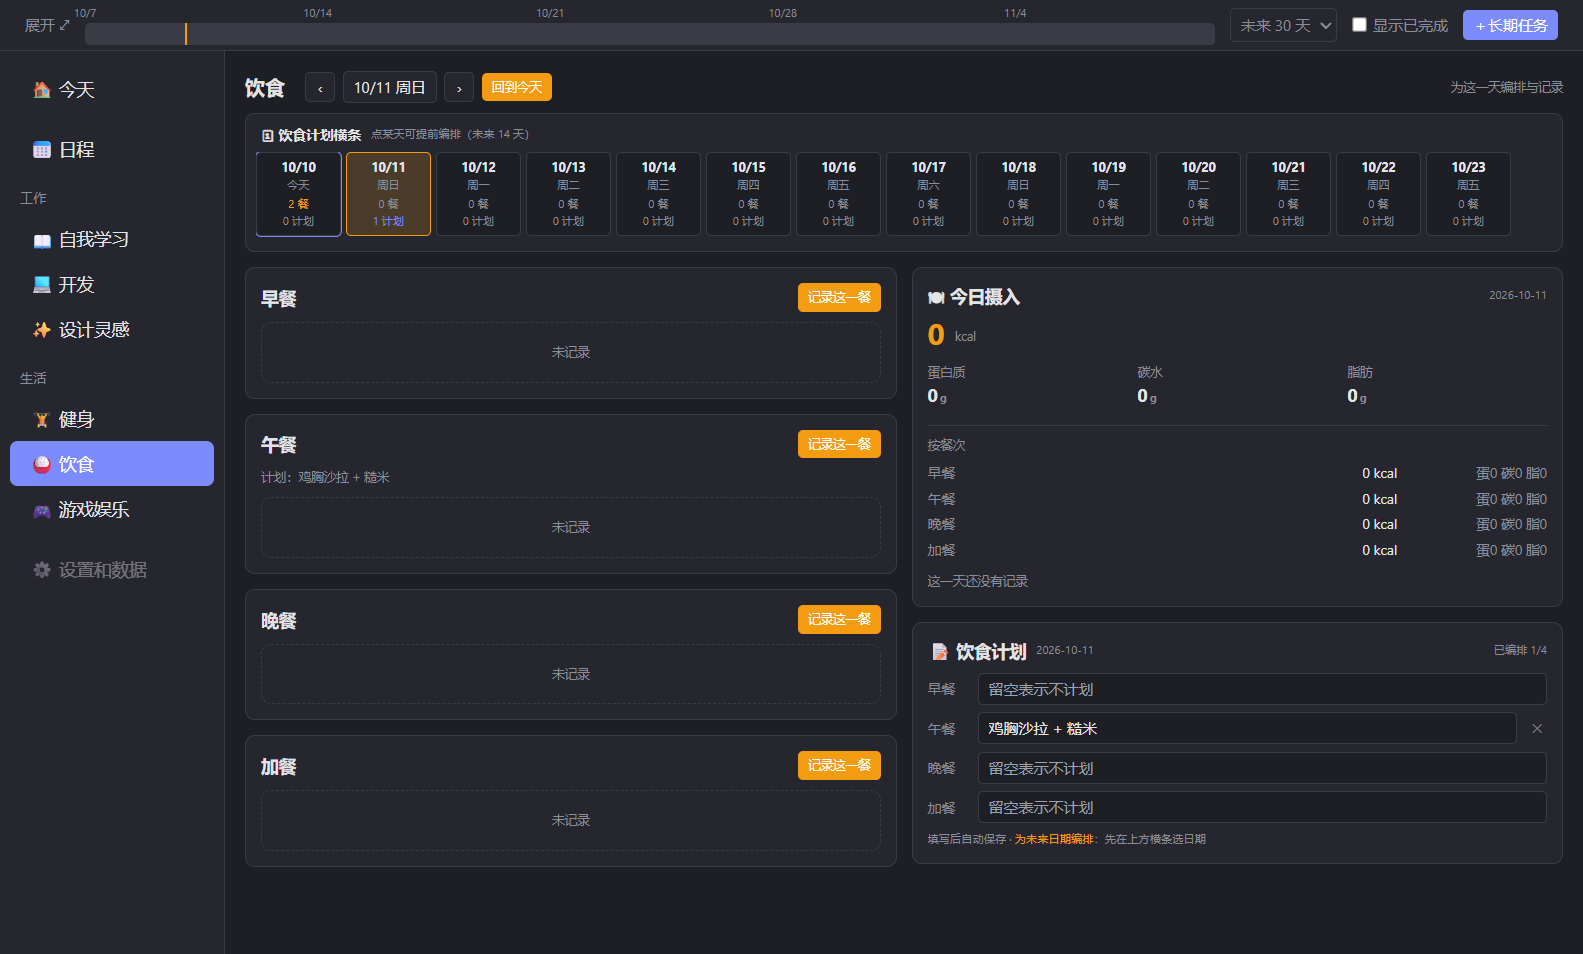
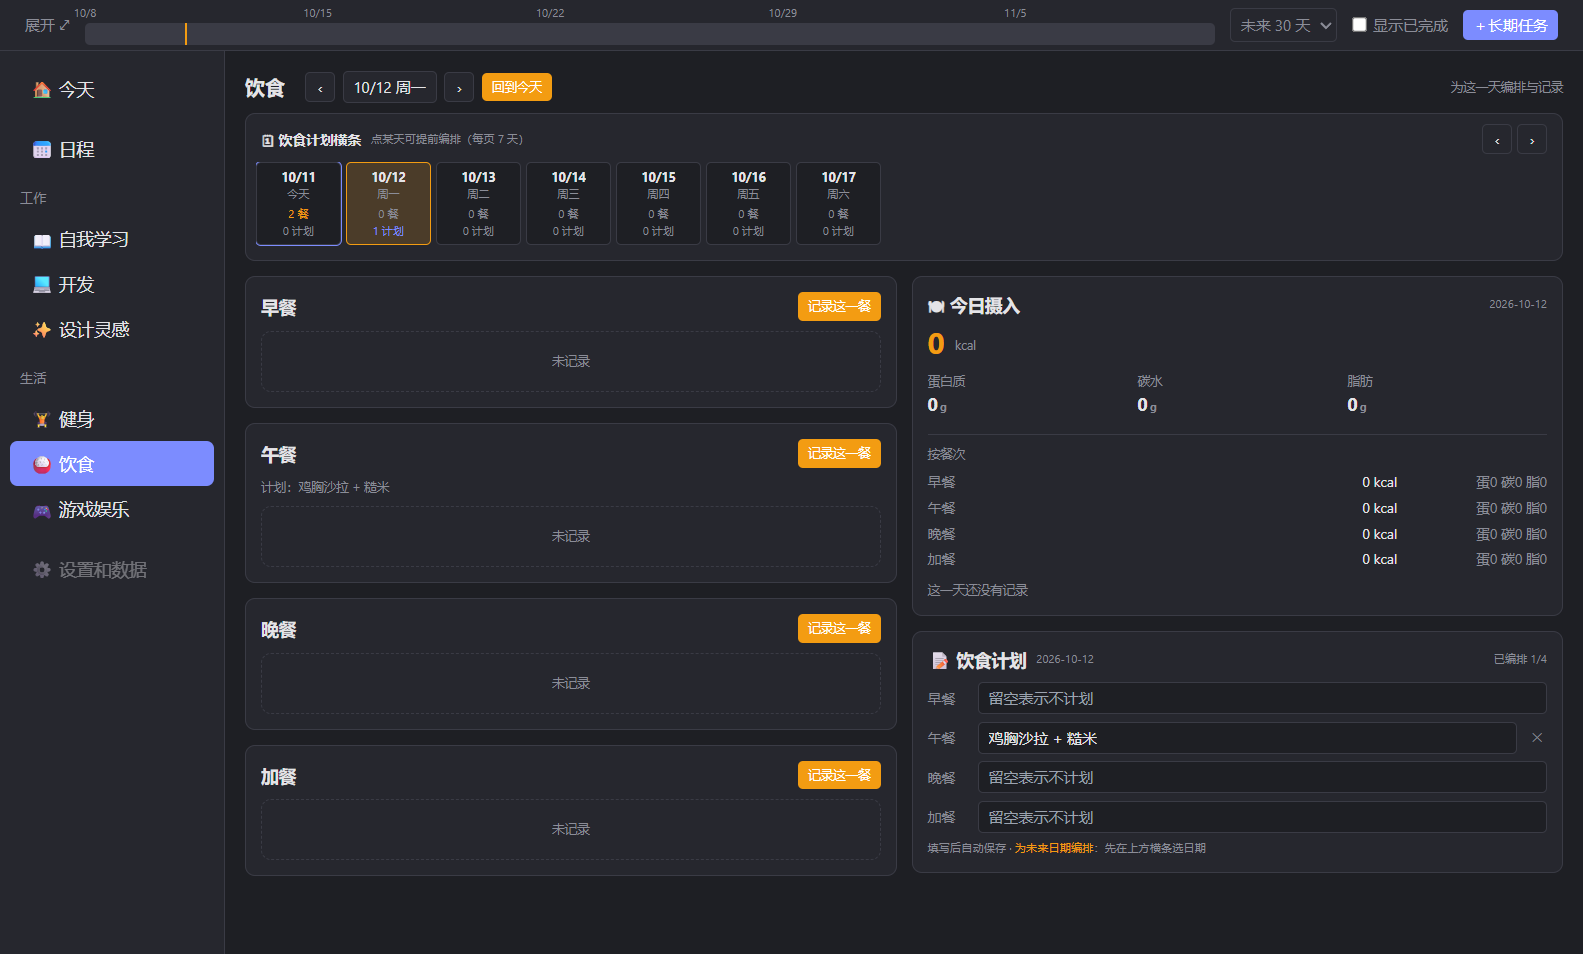
feat(饮食): 计划横条改 7 天 + 左右翻页（含 E2E 翻页断言）

diff --git a/src/renderer/src/components/diet/MealPlanStrip.tsx b/src/renderer/src/components/diet/MealPlanStrip.tsx
@@ -1,11 +1,12 @@
+import { useState } from 'react'
 import type { Meal, MealPlan } from '@shared/types'
 import { plannedCount, recordedCount, upcomingDays } from '@shared/dietStats'
-import { formatCn, weekdayCn } from '@shared/dates'
+import { addDays, formatCn, weekdayCn } from '@shared/dates'
 
-const DAYS = 14
+const DAYS = 7
 const AMBER = '#f39c12'
 
-/** 饮食计划横条：今天起 14 天，显示每天已记录餐数与已编排计划数，点击切换查看日期 */
+/** 饮食计划横条：今天起 7 天一个视口，‹ › 左右翻页（每页 ±7 天），点击某天切换查看日期 */
 export function MealPlanStrip({ today, date, meals, plans, onSelect }: {
   today: string
   date: string
@@ -13,13 +14,37 @@ export function MealPlanStrip({ today, date, meals, plans, onSelect }: {
   plans: MealPlan[]
   onSelect: (date: string) => void
 }): JSX.Element {
-  const days = upcomingDays(today, DAYS)
+  const [page, setPage] = useState(0)
+  const start = addDays(today, page * DAYS)
+  const days = upcomingDays(start, DAYS)
 
   return (
     <div className="bg-[var(--card)] border border-[var(--border)] rounded-lg p-2 mb-3" data-plan-strip>
       <div className="flex items-center gap-2 px-1 mb-1.5">
         <span className="text-[11px] font-bold">🗓 饮食计划横条</span>
-        <span className="text-[9px] text-[var(--muted)]">点某天可提前编排（未来 14 天）</span>
+        <span className="text-[9px] text-[var(--muted)]">点某天可提前编排（每页 7 天）</span>
+        <div className="ml-auto flex items-center gap-1">
+          <button
+            data-plan-prev
+            onClick={() => setPage((p) => p - 1)}
+            className="text-xs w-6 h-6 rounded border border-[var(--border)] hover:border-[var(--accent)] text-[var(--text)]"
+            title="上一页（过去 7 天）"
+          >‹</button>
+          {page !== 0 && (
+            <button
+              data-plan-today
+              onClick={() => setPage(0)}
+              className="text-[10px] px-2 h-6 rounded border border-[var(--border)] hover:border-[var(--accent)] text-[var(--accent)]"
+              title="回到今天"
+            >今天</button>
+          )}
+          <button
+            data-plan-next
+            onClick={() => setPage((p) => p + 1)}
+            className="text-xs w-6 h-6 rounded border border-[var(--border)] hover:border-[var(--accent)] text-[var(--text)]"
+            title="下一页（未来 7 天）"
+          >›</button>
+        </div>
       </div>
 
       <div className="flex gap-1 overflow-x-auto pb-1">
